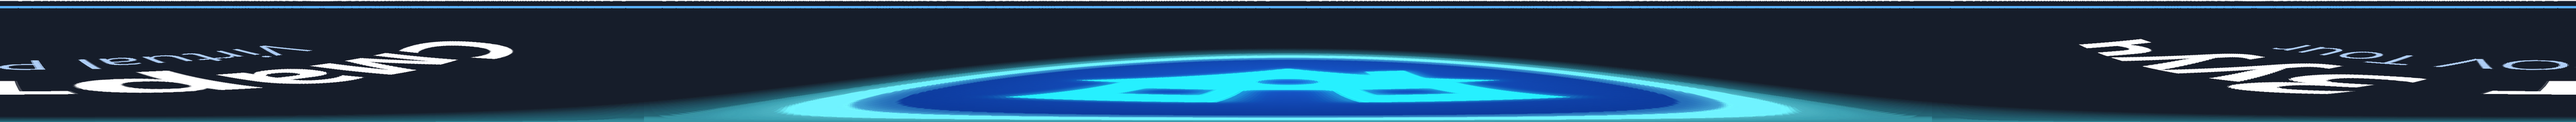
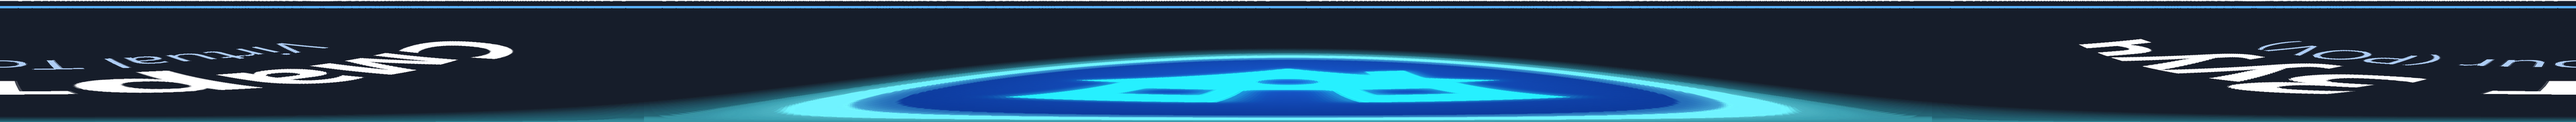
Нэршил: «POV Tour» → «Virtual Tour (POV)» (цэс, гарчиг, аяллын хуудас, усан тэмдэг, бичлэгийн тэмдэг, хөлийн доорх лого)

Changed region(s): [[0.875, 0.3279, 1.0, 0.5738], [0.0, 0.3552, 0.125, 0.5738]]

diff --git a/public/app.js b/public/app.js
@@ -133,7 +133,7 @@ async function properties() {
       <td class="num">${p.rooms}</td><td class="num">${p.area}</td><td class="num">${fmt(p.price)}</td>
       <td><span class="score loc-score" data-d="${esc(p.district)}" data-ll="${p.lat != null && p.lng != null ? p.lat + ',' + p.lng : ''}">…</span></td>
       <td>${badge(p.status)}</td><td>${esc(agentName(p.agent_id))}</td>
-      <td style="white-space:nowrap"><button class="small primary" onclick="studioView(${p.id})"><svg class=ic><use href=#i-sparkles></use></svg>Студи</button> <button class="small" onclick="tourView(${p.id})"><svg class=ic><use href=#i-rotate-3d></use></svg>POV Tour</button> <button class="small" onclick="commuteView(${p.id})" title="Замын/түгжрэлийн профайл"><svg class="ic solo"><use href=#i-route></use></svg></button> <button class="small" onclick="accessView(${p.id},${p.lat ?? 'null'},${p.lng ?? 'null'})" title="Орчны алхалтын профайл (хотын өгөгдлийн сан)"><svg class="ic solo"><use href=#i-footprints></use></svg></button> <button class="small" onclick='propForm(${JSON.stringify(p)})'>Засах</button></td></tr>`).join('')}</tbody>
+      <td style="white-space:nowrap"><button class="small primary" onclick="studioView(${p.id})"><svg class=ic><use href=#i-sparkles></use></svg>Студи</button> <button class="small" onclick="tourView(${p.id})"><svg class=ic><use href=#i-rotate-3d></use></svg>Virtual Tour</button> <button class="small" onclick="commuteView(${p.id})" title="Замын/түгжрэлийн профайл"><svg class="ic solo"><use href=#i-route></use></svg></button> <button class="small" onclick="accessView(${p.id},${p.lat ?? 'null'},${p.lng ?? 'null'})" title="Орчны алхалтын профайл (хотын өгөгдлийн сан)"><svg class="ic solo"><use href=#i-footprints></use></svg></button> <button class="small" onclick='propForm(${JSON.stringify(p)})'>Засах</button></td></tr>`).join('')}</tbody>
   </table></div>`;
   // Байршлын оноог асинхроноор
   const cache = {};
@@ -164,7 +164,7 @@ window.propForm = function (p = {}) {
     <div class="field"><label>Үнэ (сая ₮)</label><input name="price" type="number" step="0.1" value="${p.price || ''}" required></div>
     <div class="field"><label>Төлөв</label><select name="status" onchange="this.nextElementSibling.style.display=this.value==='closed'?'':'none'">
       ${['active', 'contracted', 'closed'].map((s) => `<option value="${s}" ${p.status === s ? 'selected' : ''}>${STATUS_T[s][0]}</option>`).join('')}</select>
-      <small style="color:var(--muted);display:${p.status === 'closed' ? '' : 'none'}">Хаагдсанаас 30 хоногийн дараа POV аяллын бичлэг, 360 зураг, бодит 3D автоматаар устна (дахин идэвхжүүлбэл хугацаа тэглэгдэнэ).</small></div>
+      <small style="color:var(--muted);display:${p.status === 'closed' ? '' : 'none'}">Хаагдсанаас 30 хоногийн дараа Virtual Tour (POV)-ын бичлэг, 360 зураг, бодит 3D автоматаар устна (дахин идэвхжүүлбэл хугацаа тэглэгдэнэ).</small></div>
     <div class="field"><label>Хариуцах агент</label><select name="agent_id">${AGENT_OPTS(p.agent_id)}</select></div>
     <div class="field"><label>Эзэмшигчийн нэр</label><input name="owner_name" value="${esc(p.owner_name || '')}"></div>
     <div class="field"><label>Эзэмшигчийн утас</label><input name="owner_phone" value="${esc(p.owner_phone || '')}"></div>
@@ -621,7 +621,7 @@ async function market() {
     </table></div></div>`;
 }
 
-// ---------- Ш3д: Virtual POV Tour — план засварлагч ----------
+// ---------- Ш3д: Virtual Tour (POV) — план засварлагч ----------
 let TOUR = null; // { pid, plan, types, token, sel, drag }
 function toast(msg) {
   let el = $('#toast'); if (!el) { el = document.createElement('div'); el.id = 'toast'; el.style.cssText = 'position:fixed;left:50%;bottom:24px;transform:translateX(-50%);background:var(--accent);color:#fff;padding:9px 16px;border-radius:8px;font-size:13px;z-index:99;box-shadow:0 6px 20px rgba(0,0,0,.25);transition:opacity .3s'; document.body.appendChild(el); }
@@ -637,12 +637,12 @@ window.tourView = async function (pid, mode) {
   renderTour();
 };
 window.tourMode = (m) => { TOUR.mode = m; TOUR.tool = null; renderTour(); };
-// POV Tour цэс — объект бүрд 3 арга
+// Virtual Tour (POV) цэс — объект бүрд 3 арга
 async function tours() {
   const d = await api('/properties');
   const rows = (d.items || d || []).filter((p) => p.status !== 'archived');
   $('#main').innerHTML = `
-  <div class="page-head"><h2><svg class=ic><use href=#i-rotate-3d></use></svg>Virtual POV Tour</h2><span class="demo-note">Объект бүрд 3 арга — аль нэгээр нь эхлээд бусдаар нь нарийвчилж болно</span></div>
+  <div class="page-head"><h2><svg class=ic><use href=#i-rotate-3d></use></svg>Virtual Tour (POV)</h2><span class="demo-note">Объект бүрд 3 арга — аль нэгээр нь эхлээд бусдаар нь нарийвчилж болно</span></div>
   <div class="tiles" style="margin-bottom:14px">
     <div class="tile" style="text-align:left"><div style="font-weight:700"><svg class=ic><use href=#i-wand-sparkles></use></svg>Автомат план</div><div class="k">Өрөөний тоо, талбайгаас систем ердийн зохион байгуулалт зурна — 10 секунд. Танилцуулах түвшин.</div></div>
     <div class="tile" style="text-align:left"><div style="font-weight:700"><svg class=ic><use href=#i-ruler></use></svg>Хэмжээс + AI</div><div class="k">Өрөө бүрийн хэмжээс, цонх/хаалганы байрлалыг маягтаар; зураг/бичлэгээс AI тааз, шал, ханын өнгийг таамаглана; 360° панорам. Бодит түвшин.</div></div>
@@ -745,8 +745,8 @@ function renderTour() {
       ${tourRoomDetail(t)}`;
   }
   $('#main').innerHTML = `
-  <div class="page-head"><h2><svg class=ic><use href=#i-rotate-3d></use></svg>POV Tour · ${esc(p.district)} ${esc(p.khoroolol || '')} · ${p.rooms}ө ${p.area}м²</h2>
-    <div style="display:flex;gap:8px"><button onclick="show('tours')">← POV Tour</button><button onclick="tourPlanCode()" title="Планыг код (JSON) хэлбэрээр хуулах эсвэл бэлэн планыг буулгах"><svg class=ic><use href=#i-file-text></use></svg>План код</button><button onclick="studioView(${p.id})"><svg class=ic><use href=#i-sparkles></use></svg>Студи</button></div></div>
+  <div class="page-head"><h2><svg class=ic><use href=#i-rotate-3d></use></svg>Virtual Tour (POV) · ${esc(p.district)} ${esc(p.khoroolol || '')} · ${p.rooms}ө ${p.area}м²</h2>
+    <div style="display:flex;gap:8px"><button onclick="show('tours')">← Virtual Tour (POV)</button><button onclick="tourPlanCode()" title="Планыг код (JSON) хэлбэрээр хуулах эсвэл бэлэн планыг буулгах"><svg class=ic><use href=#i-file-text></use></svg>План код</button><button onclick="studioView(${p.id})"><svg class=ic><use href=#i-sparkles></use></svg>Студи</button></div></div>
   <div style="display:flex;gap:8px;margin-bottom:12px;flex-wrap:wrap">${tab('auto', '<svg class=ic><use href=#i-wand-sparkles></use></svg>Автомат план')}${tab('measure', '<svg class=ic><use href=#i-ruler></use></svg>Хэмжээс + AI + 360°')}${tab('build', '<svg class=ic><use href=#i-brick-wall></use></svg>Блок өрж бүтээх')}</div>
   ${body}
   ${shareBox}`;
@@ -1344,14 +1344,14 @@ async function owner() {
         : `<button class="small primary" onclick="setCompany(${c.id},{status:'active'})">Идэвхжүүлэх</button>`}
         ${c.id !== ME.company_id ? `<button class="small" onclick="delCompany(${c.id},'${esc(c.name).replace(/'/g, '')}')">Устгах</button>` : ''}</td></tr>`).join('')}</tbody>
     </table></div></div>
-  <div class="card"><h3><svg class=ic><use href=#i-rotate-3d></use></svg>POV аяллууд (бүх компани)</h3>
+  <div class="card"><h3><svg class=ic><use href=#i-rotate-3d></use></svg>Virtual Tour (POV) аяллууд (бүх компани)</h3>
     <div style="font-size:12.5px;color:var(--muted);margin-bottom:8px">«Дахин бэлтгэх» — гадаах орчныг хотын өгөгдлийн сангийн хамгийн сүүлийн хувилбараар (дээврийн өнгө, мод, ойрын газар) шинэчилнэ; замын хугацааг дахин тооцохгүй (зардалгүй). «Импорт» — нэг JSON-оор объект + план + ойрын газрыг үүсгэж, гадаах орчныг бэлтгэнэ.</div>
     <div style="display:flex;gap:8px;margin-bottom:8px"><button class="small primary" onclick="ownerImport()"><svg class=ic><use href=#i-upload></use></svg>Импорт (JSON)</button><button class="small" onclick="ownerTours()">↻ Шинэчлэх</button></div>
     <div id="ot-list" style="font-size:12.5px">…</div></div>
   <div class="card"><h3><svg class=ic><use href=#i-archive></use></svg>Медиа хадгалалт ба хувийн мэдээлэл</h3><div id="st-box" style="font-size:12.5px">…</div></div>
   <div class="card"><h3><svg class=ic><use href=#i-route></use></svg>Хотын замын хугацаа (Google Routes)</h3><div id="cc-box" style="font-size:12.5px">…</div></div>
   <div class="card"><h3><svg class=ic><use href=#i-users></use></svg>Танилцуулгын эрх</h3>
-    <div style="font-size:12.5px;color:var(--muted);margin-bottom:8px">Зочин бүрт тусдаа жишээ компани (демо компанийн объект, харилцагч, гэрээ, бэлэн POV аяллын хуулбар) үүснэ — бие биедээ саад болохгүй. Хугацаа дуусахад нэвтрэлт хаагдана. Төлбөртэй функц (AI студи, гадна 3D, замын профайл, бодит медиа) зочин бүрт <span id="g-limit">2</span> объект дээр.</div>
+    <div style="font-size:12.5px;color:var(--muted);margin-bottom:8px">Зочин бүрт тусдаа жишээ компани (демо компанийн объект, харилцагч, гэрээ, бэлэн Virtual Tour (POV) аяллын хуулбар) үүснэ — бие биедээ саад болохгүй. Хугацаа дуусахад нэвтрэлт хаагдана. Төлбөртэй функц (AI студи, гадна 3D, замын профайл, бодит медиа) зочин бүрт <span id="g-limit">2</span> объект дээр.</div>
     <form id="g-form" style="display:flex;flex-wrap:wrap;gap:8px;align-items:flex-end;font-size:13px">
       <label>Нэрийн угтвар<br><input id="g-prefix" value="guest" style="width:90px"></label>
       <label>Тоо<br><input id="g-count" type="number" min="1" max="20" value="5" style="width:60px"></label>

diff --git a/public/tour.js b/public/tour.js
@@ -1,4 +1,4 @@
-// «Зууч» — Virtual POV Tour үзэгч (three.js): серверийн планаар 3D орчин, бодит CC0 glTF тавилга (Poly Haven), PBR текстур, 360° панорам
+// «Зууч» — Virtual Tour (POV) үзэгч (three.js): серверийн планаар 3D орчин, бодит CC0 glTF тавилга (Poly Haven), PBR текстур, 360° панорам
 import * as THREE from 'three';
 import { GLTFLoader } from '/vendor/GLTFLoader.js';
 import { RoundedBoxGeometry } from '/vendor/RoundedBoxGeometry.js';
@@ -1334,7 +1334,7 @@ async function main() {
   const p = data.property || {};
   $('#title').textContent = `${p.district || ''}${p.khoroolol ? ', ' + p.khoroolol : ''} · ${p.rooms || rooms.length} өрөө · ${p.area || plan.totalArea} м²${p.floor ? ` · ${p.floor}/${p.total_floors || '—'} давхар` : ''}${data.company ? ' · ' + data.company : ''}`;
   window.dispatchEvent(new CustomEvent('tour:data', { detail: { company: data.company || '' } })); // брэнд давхаргад агентлагийн нэр
-  document.title = `POV Tour — ${p.district || 'Зууч'}`;
+  document.title = `Virtual Tour (POV) — ${p.district || 'Зууч'}`;
   // FPS: pixel ratio ≤1.5, статик сүүдэр (зөвхөн тавилга гарч ирэх үед шинэчилнэ), high-performance GPU
   renderer = new THREE.WebGLRenderer({ canvas: $('#c'), antialias: true, powerPreference: 'high-performance' }); renderer.setPixelRatio(Math.min(devicePixelRatio, 1.25)); // canvas MSAA — bloom-гүй (түвшин 0) болон гадаах нислэгт renderer.shadowMap.enabled = true; renderer.shadowMap.type = THREE.PCFShadowMap; renderer.shadowMap.autoUpdate = false; renderer.toneMapping = THREE.ACESFilmicToneMapping; renderer.toneMappingExposure = 1.0;
   // near 0.05: 0.1 үед дэлгэцийн захад хана таслагдаж байсан

diff --git a/server.js b/server.js
@@ -553,7 +553,7 @@ app.post('/api/studio/:pid/analyze', paid('pid'), wrap(async (req, res) => {
 }));
 
 // ---- Хуудсууд ----
-// ---- Ш3д: Virtual POV Tour ----
+// ---- Ш3д: Virtual Tour (POV) ----
 const tourLib = require('./tour');
 const ROOM_TYPE_OF = { 'зочны': 'living', 'гал тогоо': 'kitchen', 'унтлагын': 'bedroom', 'угаалгын': 'bath', 'коридор': 'hall', 'тагт': 'balcony' };
 async function tourProp(req, res) {
@@ -850,7 +850,7 @@ app.post('/api/tour/:pid/analyze', auth, paid('pid'), wrap(async (req, res) => {
   if (!process.env.ANTHROPIC_API_KEY) return res.status(400).json({ error: 'ANTHROPIC_API_KEY тохируулаагүй' });
   // Студийн зураг + бичлэгийн кадрууд (kind='frame', өрөөний шошготой) — өрөө тус бүрийн зөвлөмж гаргана
   const rows = await db.all("SELECT * FROM listing_assets WHERE company_id=? AND property_id=? AND COALESCE(kind,'photo') IN ('photo','frame') ORDER BY (COALESCE(kind,'photo')='frame'), CASE WHEN rank>0 THEN rank ELSE 9999 END, id LIMIT 20", req.user.company_id, prop.id);
-  if (!rows.length) return res.status(400).json({ error: 'Эхлээд Студид зураг эсвэл POV Tour-д бичлэг оруулна уу' });
+  if (!rows.length) return res.status(400).json({ error: 'Эхлээд Студид зураг эсвэл Virtual Tour (POV)-д бичлэг оруулна уу' });
   const Anthropic = require('@anthropic-ai/sdk'); const ai = new Anthropic();
   const content = [];
   for (let i = 0; i < rows.length; i++) {

diff --git a/public/index.html b/public/index.html
@@ -187,7 +187,7 @@ nav.menu button.active .ic{background:rgba(11,22,38,.14);color:var(--side-accent
       <div style="font-size:10.5px;letter-spacing:.08em;text-transform:uppercase;color:var(--muted);padding:10px 14px 4px">Агентын хэрэгсэл</div>
       <button data-view="mylist"><svg class="ic" aria-hidden="true"><use href="#i-bookmark"/></svg>Миний лист</button>
       <button data-view="studio"><svg class="ic" aria-hidden="true"><use href="#i-sparkles"/></svg>AI Студи</button>
-      <button data-view="tours"><svg class="ic" aria-hidden="true"><use href="#i-rotate-3d"/></svg>POV Tour</button>
+      <button data-view="tours"><svg class="ic" aria-hidden="true"><use href="#i-rotate-3d"/></svg>Virtual Tour (POV)</button>
       <button data-view="buyers"><svg class="ic" aria-hidden="true"><use href="#i-contact"/></svg>Buyer бүртгэл</button>
       <button data-view="findbuyers"><svg class="ic" aria-hidden="true"><use href="#i-user-search"/></svg>Худалдан авагч хайх</button>
       <button data-view="leads"><svg class="ic" aria-hidden="true"><use href="#i-target"/></svg>Гэрээний боломж</button>

diff --git a/media.js b/media.js
@@ -138,7 +138,7 @@ function anonChild(job, onMsg, timeoutMs = 6 * 3600e3) {
 }
 async function makePoster(T, out, poster, dur, eq) { await run(T.ffmpeg, ['-y', '-hide_banner', '-ss', String(Math.min(1, dur / 3)), '-i', out, '-frames:v', '1', '-vf', eq ? 'scale=1024:512' : "scale='min(960,iw)':-2", '-q:v', '4', poster], { timeoutMs: 120000 }).catch(() => {}); }
 
-// Энгийн (360 биш) бичлэгт баруун дээд буланд брэнд тэмдэг (QR + «Смарт Зууч · Virtual POV Tour технологи») шигтгэнэ — татаж авсан файлд ч үлдэнэ
+// Энгийн (360 биш) бичлэгт баруун дээд буланд брэнд тэмдэг (QR + «Смарт Зууч · Virtual Tour (POV) технологи») шигтгэнэ — татаж авсан файлд ч үлдэнэ
 const BADGE = path.join(__dirname, 'public', 'brand', 'video-badge.png');
 // 360 (equirect): хөлийн доор (nadir) дугуй лого — доош харахад тэгш дугуй, саваа нуугдана (tools/brand/nadir.py)
 const NADIR = path.join(__dirname, 'public', 'brand', 'nadir-3840.png');

diff --git a/public/tour.html b/public/tour.html
@@ -3,7 +3,7 @@
 <head>
 <meta charset="utf-8">
 <meta name="viewport" content="width=device-width,initial-scale=1,viewport-fit=cover">
-<title>Virtual POV Tour — Зууч</title>
+<title>Virtual Tour (POV) — Зууч</title>
 <link rel="icon" href="/brand/favicon.svg?v=2" type="image/svg+xml">
 <link rel="icon" href="/brand/favicon-32.png?v=2" sizes="32x32" type="image/png">
 <link rel="apple-touch-icon" href="/brand/apple-touch-icon.png?v=2">
@@ -94,7 +94,7 @@
 <canvas id="c"></canvas>
 <div class="top">
   <a class="brand" href="/"><img src="/brand/zuuch-mark.svg?v=2" alt="" width="24" height="24" style="vertical-align:middle;margin-right:6px;margin-top:-4px">Зууч<b>.</b></a>
-  <span class="title" id="title">Virtual POV Tour</span>
+  <span class="title" id="title">Virtual Tour (POV)</span>
   <span class="sp"></span>
   <button id="bAuto" class="on"><svg class="ic" aria-hidden="true"><use href="#i-play"/></svg>Автомат аялал</button>
   <button id="bFree"><svg class="ic" aria-hidden="true"><use href="#i-compass"/></svg>Өөрөө явах</button>

diff --git a/public/tour-brand.js b/public/tour-brand.js
@@ -2,7 +2,7 @@
    Аяллыг дэлгэцийн зураг/бичлэгээр хуулбал «Смарт Зууч» брэнд, агентлагийн нэр, огноо, QR дагаж явна —
    өөр газар тавьсан бичлэг манай системийн сурталчилгаа болно. Вэбээр бүрэн хаах боломжгүй тул гол зорилго нь эх сурвалжийг ил гаргах. */
 (function () {
-  var BRAND = 'Смарт Зууч', TECH = 'Virtual POV Tour';
+  var BRAND = 'Смарт Зууч', TECH = 'Virtual Tour (POV)';
   var INTRO = location.origin + '/?ref=tour';
   var company = '';
   var d = new Date(); var DATE = d.getFullYear() + '.' + String(d.getMonth() + 1).padStart(2, '0') + '.' + String(d.getDate()).padStart(2, '0');

diff --git a/tour.js b/tour.js
@@ -1,4 +1,4 @@
-// «Зууч» — Virtual POV Tour (Ш3д): орон сууцны план → 3D аялалд бэлэн бүтэц
+// «Зууч» — Virtual Tour (POV) (Ш3д): орон сууцны план → 3D аялалд бэлэн бүтэц
 // План = өрөөнүүд (метр, дээрээс харсан: x баруун тийш, y урагш/өмнө зүг), хаалга/цонх = дэлхийн координатаар.
 // Ш3д-2: өрөө бүрд ГАР хэмжээс (win/door/beams — аль хана, хананы зүүн/дээд захаас хэдэн м) + AI зөвлөмж (style.rooms) → автоматыг дарна.
 const crypto = require('node:crypto');

diff --git a/db.js b/db.js
@@ -398,7 +398,7 @@ ALTER TABLE listing_assets ADD COLUMN IF NOT EXISTS room_id TEXT;
 ALTER TABLE listing_assets ADD COLUMN IF NOT EXISTS enh_file TEXT;
 ALTER TABLE listing_assets ADD COLUMN IF NOT EXISTS enh_mode TEXT;
 ALTER TABLE listing_assets ADD COLUMN IF NOT EXISTS enh_note TEXT;
--- Ш3д: Virtual POV Tour (объект бүрд нэг план + нийтийн хуваалцах token)
+-- Ш3д: Virtual Tour (POV) (объект бүрд нэг план + нийтийн хуваалцах token)
 CREATE TABLE IF NOT EXISTS tours (
   id SERIAL PRIMARY KEY,
   company_id INTEGER NOT NULL,

diff --git a/tools/brand/video_badge.py b/tools/brand/video_badge.py
@@ -1,4 +1,4 @@
-# Бичлэгт шигтгэх брэнд тэмдэг: QR (системийн танилцуулга) + лого + «Смарт Зууч · Virtual POV Tour технологи».
+# Бичлэгт шигтгэх брэнд тэмдэг: QR (системийн танилцуулга) + лого + «Смарт Зууч · Virtual Tour (POV) технологи».
 # Ажиллуулах: python tools/brand/video_badge.py [URL]  → public/brand/video-badge.png (тунгалаг дэвсгэртэй)
 # Домэйн солигдвол URL-аа өгч дахин үүсгэнэ.
 import sys, os
@@ -17,7 +17,7 @@ qr = q.make_image(fill_color='#0B1220', back_color='white').convert('RGBA')
 QW = qr.size[0]
 logo = Image.open(os.path.join(ROOT, 'public', 'brand', 'icon-512.png')).convert('RGBA').resize((84, 84), Image.LANCZOS)
 
-lines = [('Смарт Зууч', bold, '#FFFFFF'), ('Virtual POV Tour технологи', reg, '#D7E3F7'), ('ЗӨВХӨН СМАРТ ЗУУЧ СИСТЕМД', sm, '#5AB0FF')]
+lines = [('Смарт Зууч', bold, '#FFFFFF'), ('Virtual Tour (POV) технологи', reg, '#D7E3F7'), ('ЗӨВХӨН СМАРТ ЗУУЧ СИСТЕМД', sm, '#5AB0FF')]
 tmp = ImageDraw.Draw(Image.new('RGBA', (10, 10)))
 tw = max(tmp.textlength(t, font=f) + (96 if i == 0 else 0) for i, (t, f, _) in enumerate(lines))
 W = int(PAD + Q + 28 + tw + PAD + 10)

diff --git a/tools/brand/nadir.py b/tools/brand/nadir.py
@@ -18,7 +18,7 @@ d.ellipse([22, 22, S - 23, S - 23], outline=(90, 176, 255, 255), width=10)
 logo = Image.open(os.path.join(ROOT, 'public', 'brand', 'icon-512.png')).convert('RGBA').resize((330, 330), Image.LANCZOS)
 disc.alpha_composite(logo, ((S - 330) // 2, 205))
 f1 = ImageFont.truetype(F + 'segoeuib.ttf', 112); f2 = ImageFont.truetype(F + 'segoeui.ttf', 56)
-for txt, fnt, y, col in [('Смарт Зууч', f1, 560, (255, 255, 255, 255)), ('Virtual POV Tour', f2, 705, (174, 205, 245, 255))]:
+for txt, fnt, y, col in [('Смарт Зууч', f1, 560, (255, 255, 255, 255)), ('Virtual Tour (POV)', f2, 705, (174, 205, 245, 255))]:
     w = d.textlength(txt, font=fnt); d.text(((S - w) / 2, y), txt, font=fnt, fill=col)
 disc.save(os.path.join(ROOT, 'public', 'brand', 'nadir-disc.png'), optimize=True)
 
